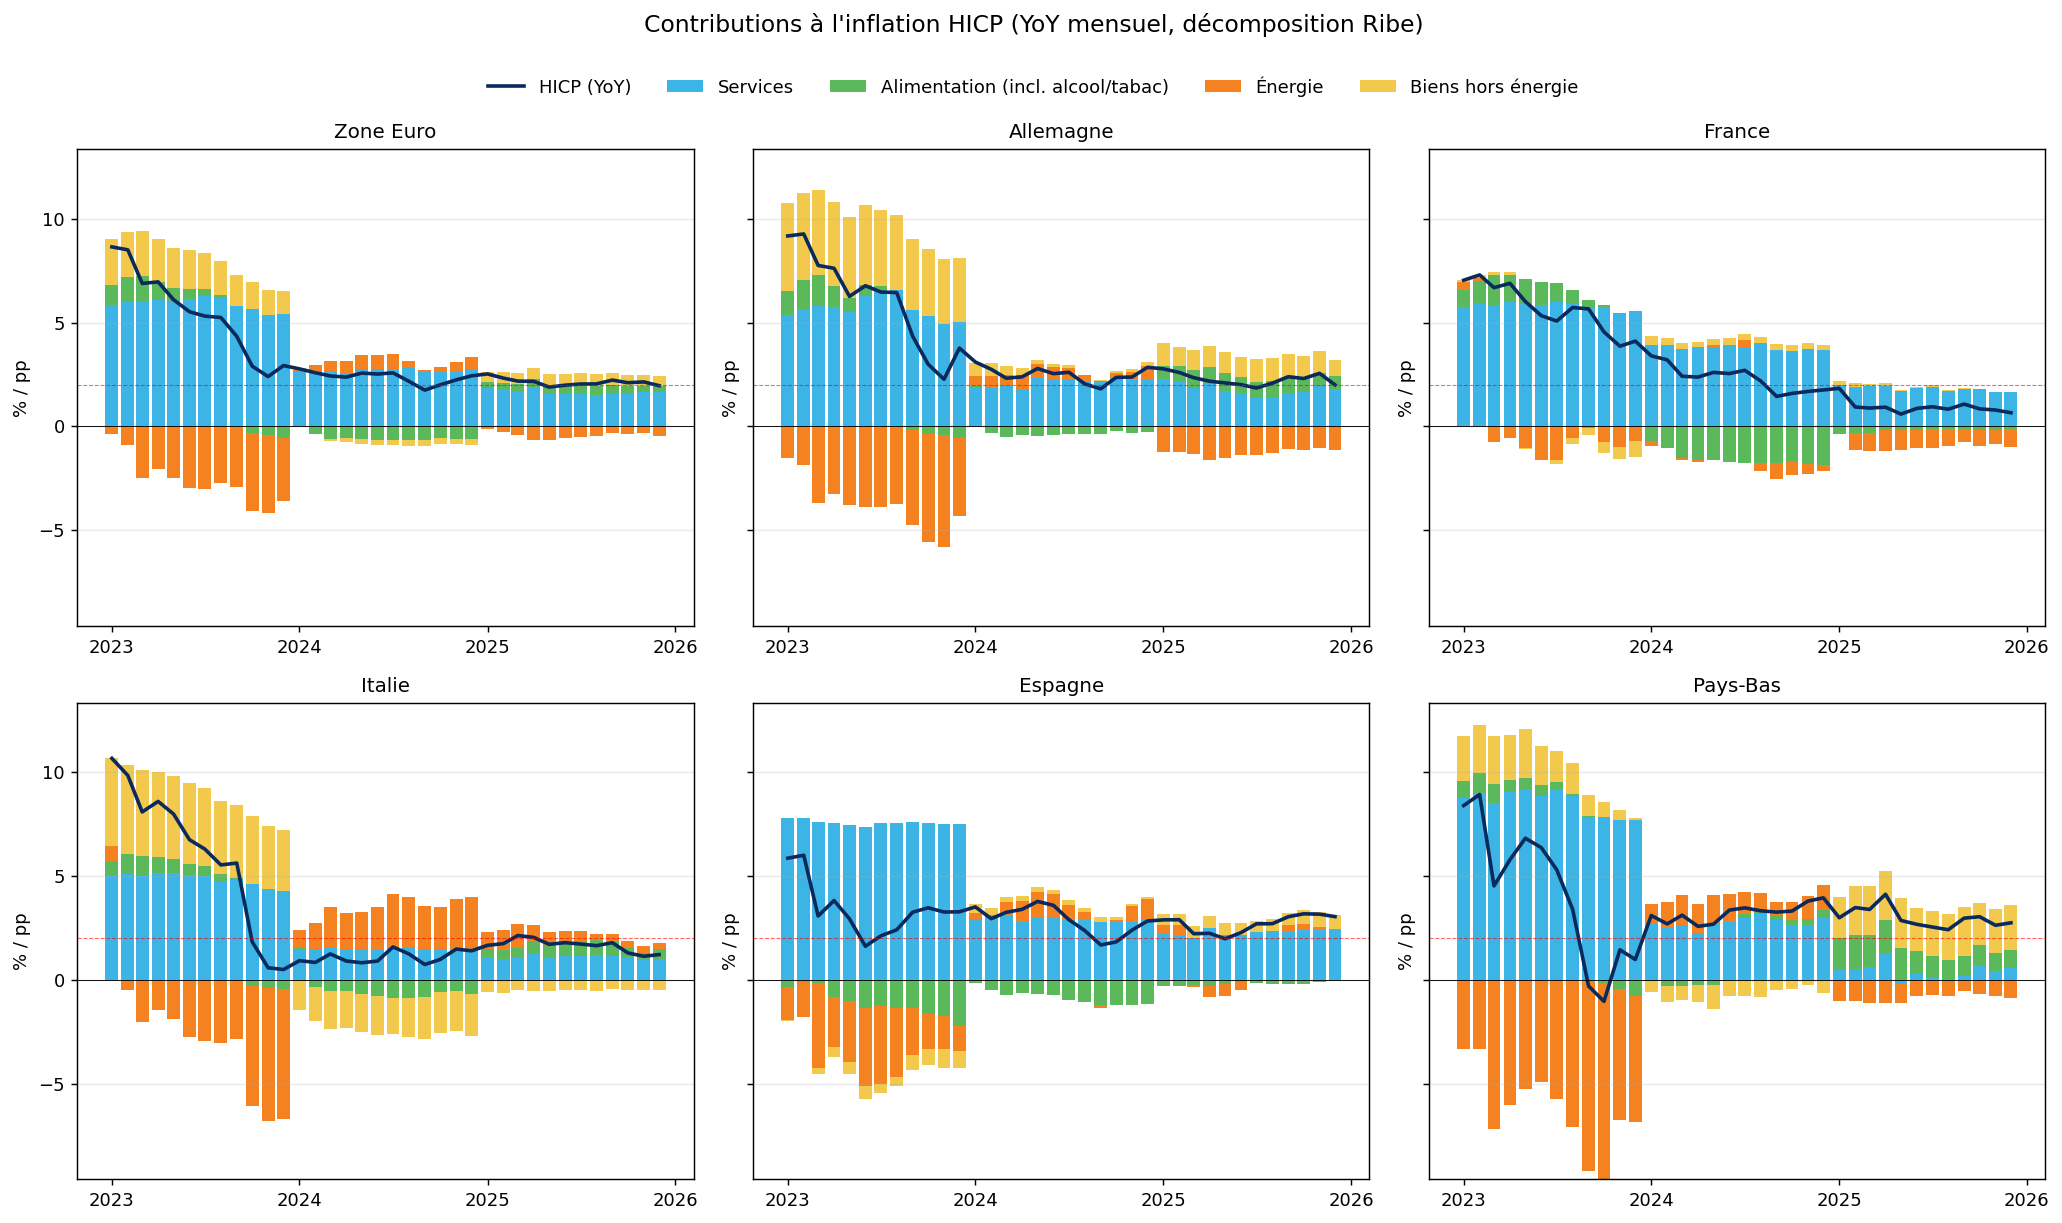
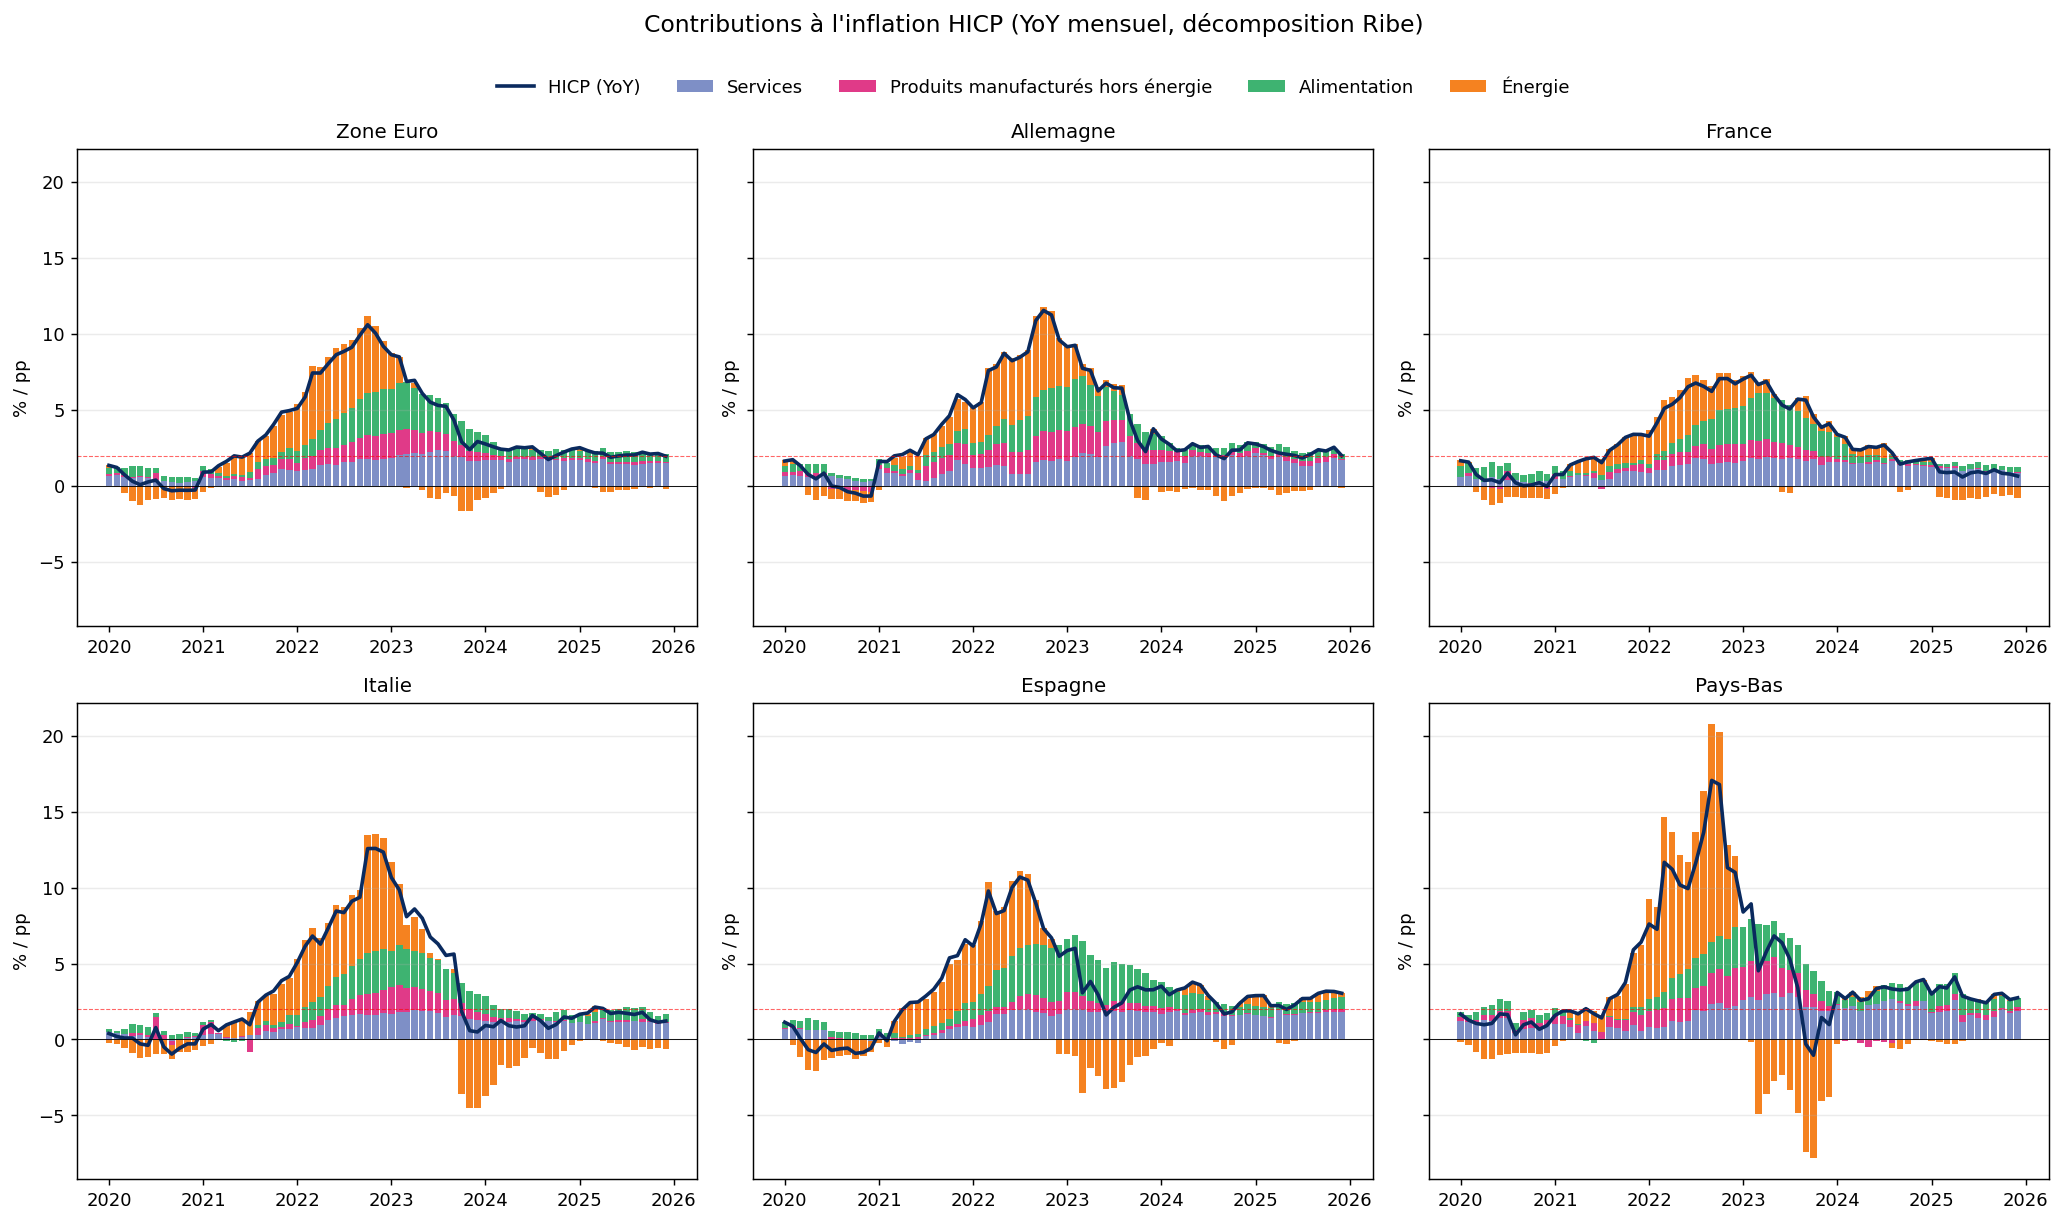
Fix HICP contribution formula: use standard ECB weight-based Ribe (no chain-link redistribution artifact)

diff --git a/plot_contributions.py b/plot_contributions.py
@@ -20,15 +20,20 @@ NAMES = {"EA": "Zone Euro", "DE": "Allemagne", "FR": "France",
 
 # Style BCE — ordre des composantes et couleurs
 COMPONENTS = [
-    ("SERV",     "Services",                       "#3CB4E5"),
-    ("FOOD",     "Alimentation (incl. alcool/tabac)", "#5BB85B"),
-    ("NRG",      "Énergie",                         "#F58220"),
-    ("IGD_NNRG", "Biens hors énergie",              "#F2C94C"),
+    ("SERV",     "Services",                         "#7E8FC6"),
+    ("IGD_NNRG", "Produits manufacturés hors énergie", "#E03A88"),
+    ("FOOD",     "Alimentation",                     "#3EB371"),
+    ("NRG",      "Énergie",                          "#F58220"),
 ]
 
 
 def ribe_contributions(geo: str) -> pd.DataFrame:
-    """Retourne un DataFrame indexé par date avec une colonne par composante (en pp)."""
+    """
+    Contributions à la YoY HICP — formule BCE/Eurostat standard.
+        C_i_t = (w_i_y / 1000) * (I_i_t - I_i_t-12) / I_tot_t-12 * 100
+    Σ contributions ≈ YoY officielle (résidu négligeable lié à la rupture de
+    chaînage de janvier, < 0.1 pp en pratique).
+    """
     sub = idx[idx["geo"] == geo]
     w = wts[wts["geo"] == geo]
     wide = sub.pivot(index="date", columns="coicop", values="value").sort_index()
@@ -38,28 +43,20 @@ def ribe_contributions(geo: str) -> pd.DataFrame:
     out = {}
     for t in wide.index:
         t_prev = t - pd.DateOffset(years=1)
-        y, y_prev = t.year, t.year - 1
-        dec_y1 = pd.Timestamp(year=y - 1, month=12, day=1)
-        dec_y2 = pd.Timestamp(year=y - 2, month=12, day=1)
-        if any(d not in wide.index for d in [t_prev, dec_y1, dec_y2]):
+        y = t.year
+        if t_prev not in wide.index or y not in w_wide.index:
             continue
-        if y not in w_wide.index or y_prev not in w_wide.index:
+        if any(c not in w_wide.columns for c in cols):
             continue
         w_y = w_wide.loc[y, cols] / 1000.0
-        w_y1 = w_wide.loc[y_prev, cols] / 1000.0
-        if w_y.isna().any() or w_y1.isna().any():
+        if w_y.isna().any():
             continue
-        I_t, I_tm12 = wide.loc[t, cols], wide.loc[t_prev, cols]
-        I_dy1, I_dy2 = wide.loc[dec_y1, cols], wide.loc[dec_y2, cols]
-        if any(x.isna().any() for x in [I_t, I_tm12, I_dy1, I_dy2]):
+        I_t = wide.loc[t, cols]
+        I_tm12 = wide.loc[t_prev, cols]
+        if I_t.isna().any() or I_tm12.isna().any():
             continue
-        I_tot_dy1 = wide.loc[dec_y1, "CP00"]
-        I_tot_dy2 = wide.loc[dec_y2, "CP00"]
         I_tot_tm12 = wide.loc[t_prev, "CP00"]
-        contrib = (
-            I_tot_dy1 * w_y * I_t / I_dy1
-            - I_tot_dy2 * w_y1 * I_tm12 / I_dy2
-        ) / I_tot_tm12 * 100.0
+        contrib = w_y * (I_t - I_tm12) / I_tot_tm12 * 100.0
         out[t] = contrib
     df = pd.DataFrame(out).T.sort_index()
     df.index.name = "date"
@@ -103,7 +100,7 @@ def plot_panel(ax, geo: str, start="2021-01-01", end=None, freq="M"):
     ax.xaxis.set_major_formatter(mdates.DateFormatter("%Y"))
 
 
-START = "2023-01-01"
+START = "2020-01-01"
 
 # --- Grille 2x3, mensuel, 2023 → dernier point ---
 fig, axes = plt.subplots(2, 3, figsize=(16, 9), sharey=True)
